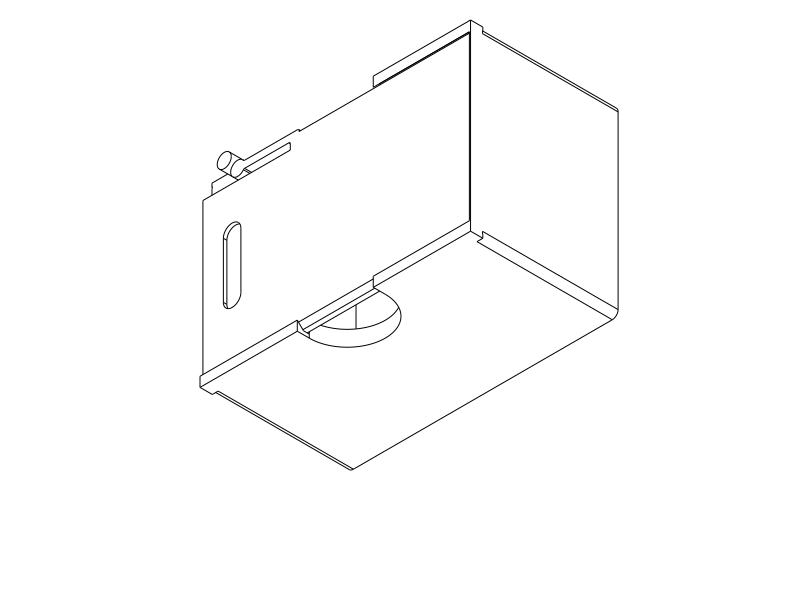
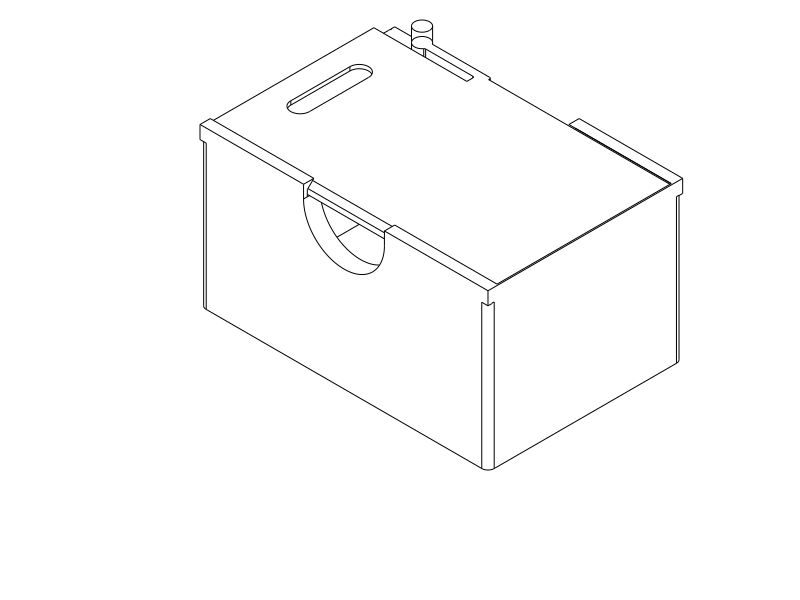
Keep model views upright with an explicit camera frame

diff --git a/evaluate_model.py b/evaluate_model.py
@@ -104,11 +104,35 @@ def export(shape, item):
         temporary.unlink(missing_ok=True)
 
 
+def view_up(view):
+    # Top/bottom look along Z, so Y is their screen-up reference.
+    return (0, 1, 0) if view in ("top", "bottom") else (0, 0, 1)
+
+
+def view_transform(view):
+    """Rigid world-to-camera transform; Z stays upright in side/isometric views.
+
+    CadQuery getSVG only accepts a projection direction and gp_Ax2 chooses its
+    screen axes implicitly. Project a render-only copy into an explicit frame
+    and use getSVG's identity top projection instead of inheriting camera roll.
+    """
+    import cadquery as cq
+    from OCP.gp import gp_Trsf
+    direction = cq.Vector(*VIEWS[view]).normalized()
+    right = cq.Vector(*view_up(view)).cross(direction).normalized()
+    up = direction.cross(right).normalized()
+    transform = gp_Trsf()
+    transform.SetValues(*[value for axis in (right, up, direction)
+                          for value in (*axis.toTuple(), 0)])
+    return cq.Matrix(transform)
+
+
 def render(shape, view, width, height, show_hidden):
     from cadquery.occ_impl.exporters.svg import getSVG
-    svg = getSVG(shape, opts={"width": width, "height": height,
-                              "projectionDir": VIEWS[view], "showHidden": show_hidden,
-                              "showAxes": view.startswith("isometric")}).encode("utf-8")
+    projected = shape.transformShape(view_transform(view))
+    svg = getSVG(projected, opts={"width": width, "height": height,
+                                 "projectionDir": (0, 0, 1), "showHidden": show_hidden,
+                                 "showAxes": False}).encode("utf-8")
     import cairosvg
     return cairosvg.svg2png(bytestring=svg, output_width=width, output_height=height,
                             background_color="#ffffff")
@@ -162,7 +186,9 @@ def worker(request, response):
                     data = render(shape, view, args["width"], args["height"],
                                   args["show_hidden"])
                     atomic_bytes(destination, data)
-                    report["views"].append({"view": view, "ok": True, "path": str(destination)})
+                    report["views"].append({"view": view, "ok": True, "path": str(destination),
+                                            "camera": {"from_direction": VIEWS[view],
+                                                       "up_direction": view_up(view)}})
                 except Exception as exc:
                     report["views"].append({"view": view, "ok": False})
                     error("render", exc, view=view)
@@ -419,7 +445,8 @@ def main(argv=None):
         formatter_class=argparse.ArgumentDefaultsHelpFormatter)
     parser.add_argument("file_path", type=Path, nargs="?", help="Trusted CadQuery Python entry point")
     parser.add_argument("--views", default="isometric,front,top,right",
-                        help=f"Comma-separated views from {', '.join(VIEWS)}, or none")
+                        help=f"Comma-separated views from {', '.join(VIEWS)}, or none; "
+                             "Z is upright except top/bottom, which use Y upright")
     parser.add_argument("--output-dir", default="renders/scratch",
                         help="Render output directory, relative to the model file")
     parser.add_argument("--width", type=positive_pixel, default=800,

diff --git a/tests/test_evaluate_model.py b/tests/test_evaluate_model.py
@@ -3,7 +3,10 @@ import json
 from pathlib import Path
 import subprocess
 import sys
-from PIL import Image
+from PIL import Image, ImageChops
+import pytest
+import cadquery as cq
+from evaluate_model import render, view_transform
 
 COMMAND = Path(__file__).resolve().parents[1] / "evaluate_model.py"
 
@@ -51,3 +54,32 @@ def test_build_error_cannot_claim_old_artifacts(tmp_path):
     assert not data["ok"] and data["errors"][0]["stage"] == "build"
     assert data["exports"] == [] and old.read_text() == "old output"
     assert not (tmp_path / "broken.stl").exists()
+
+
+@pytest.mark.parametrize('view', ['front', 'back', 'left', 'right', 'isometric', 'isometric_back'])
+def test_render_keeps_vertical_pillar_and_top_cap_upright(view):
+    """Actual PNG geometry catches sideways side views and inverted/rolled iso."""
+    import io
+    pillar = cq.Workplane('XY').box(4, 4, 60, centered=False)
+    cap = cq.Workplane('XY').box(18, 18, 3, centered=False).translate((-7, -7, 60))
+    shape = pillar.union(cap).val()
+    png = Image.open(io.BytesIO(render(shape, view, 800, 600, False))).convert('RGB')
+    ink = ImageChops.difference(png, Image.new('RGB', png.size, 'white'))
+    bounds = ink.getbbox()
+    assert bounds is not None
+    x0, y0, x1, y1 = bounds
+    assert y1-y0 > 2*(x1-x0), 'Z pillar is rolled sideways'
+    third = (y1-y0)//3
+    upper = ink.crop((x0, y0, x1, y0+third)).getbbox()
+    lower = ink.crop((x0, y1-third, x1, y1)).getbbox()
+    assert upper[2]-upper[0] > 2*(lower[2]-lower[0]), 'Top cap is not at the top'
+
+
+def test_view_frame_preserves_bed_axes_and_source_geometry():
+    top = view_transform('top')
+    assert top.multiply(cq.Vector(1, 0, 0)).toTuple() == pytest.approx((1, 0, 0))
+    assert top.multiply(cq.Vector(0, 1, 0)).toTuple() == pytest.approx((0, 1, 0))
+    shape = cq.Workplane('XY').box(7, 5, 11, centered=False).val()
+    before = [v.toTuple() for v in shape.Vertices()]
+    render(shape, 'isometric', 800, 600, False)
+    assert [v.toTuple() for v in shape.Vertices()] == before

diff --git a/AGENTS.md b/AGENTS.md
@@ -281,6 +281,13 @@ geometry-only checks. Use `--export` for the final pair or `--slice` for the
 pair plus smoke review. Reuse saved images rather than
 rebuilding merely to open them.
 
+The shared renderer uses Z upright for side/isometric views and Y upright for
+top/bottom views; each successful view reports its camera directions. Camera
+orientation changes only the image. Print placement comes from the selected
+source geometry, while an assembled inspection entry point can use a different
+pose. Images made before the camera-up correction may appear tilted or sideways;
+do not infer their print orientation from the screen's vertical direction.
+
 For valid evaluation invocations, stdout is one JSON report. The example below
 is illustrative, not a required summary schema. Read only the report fields
 needed for the current task; inspect diagnostics and tracebacks when a failure
